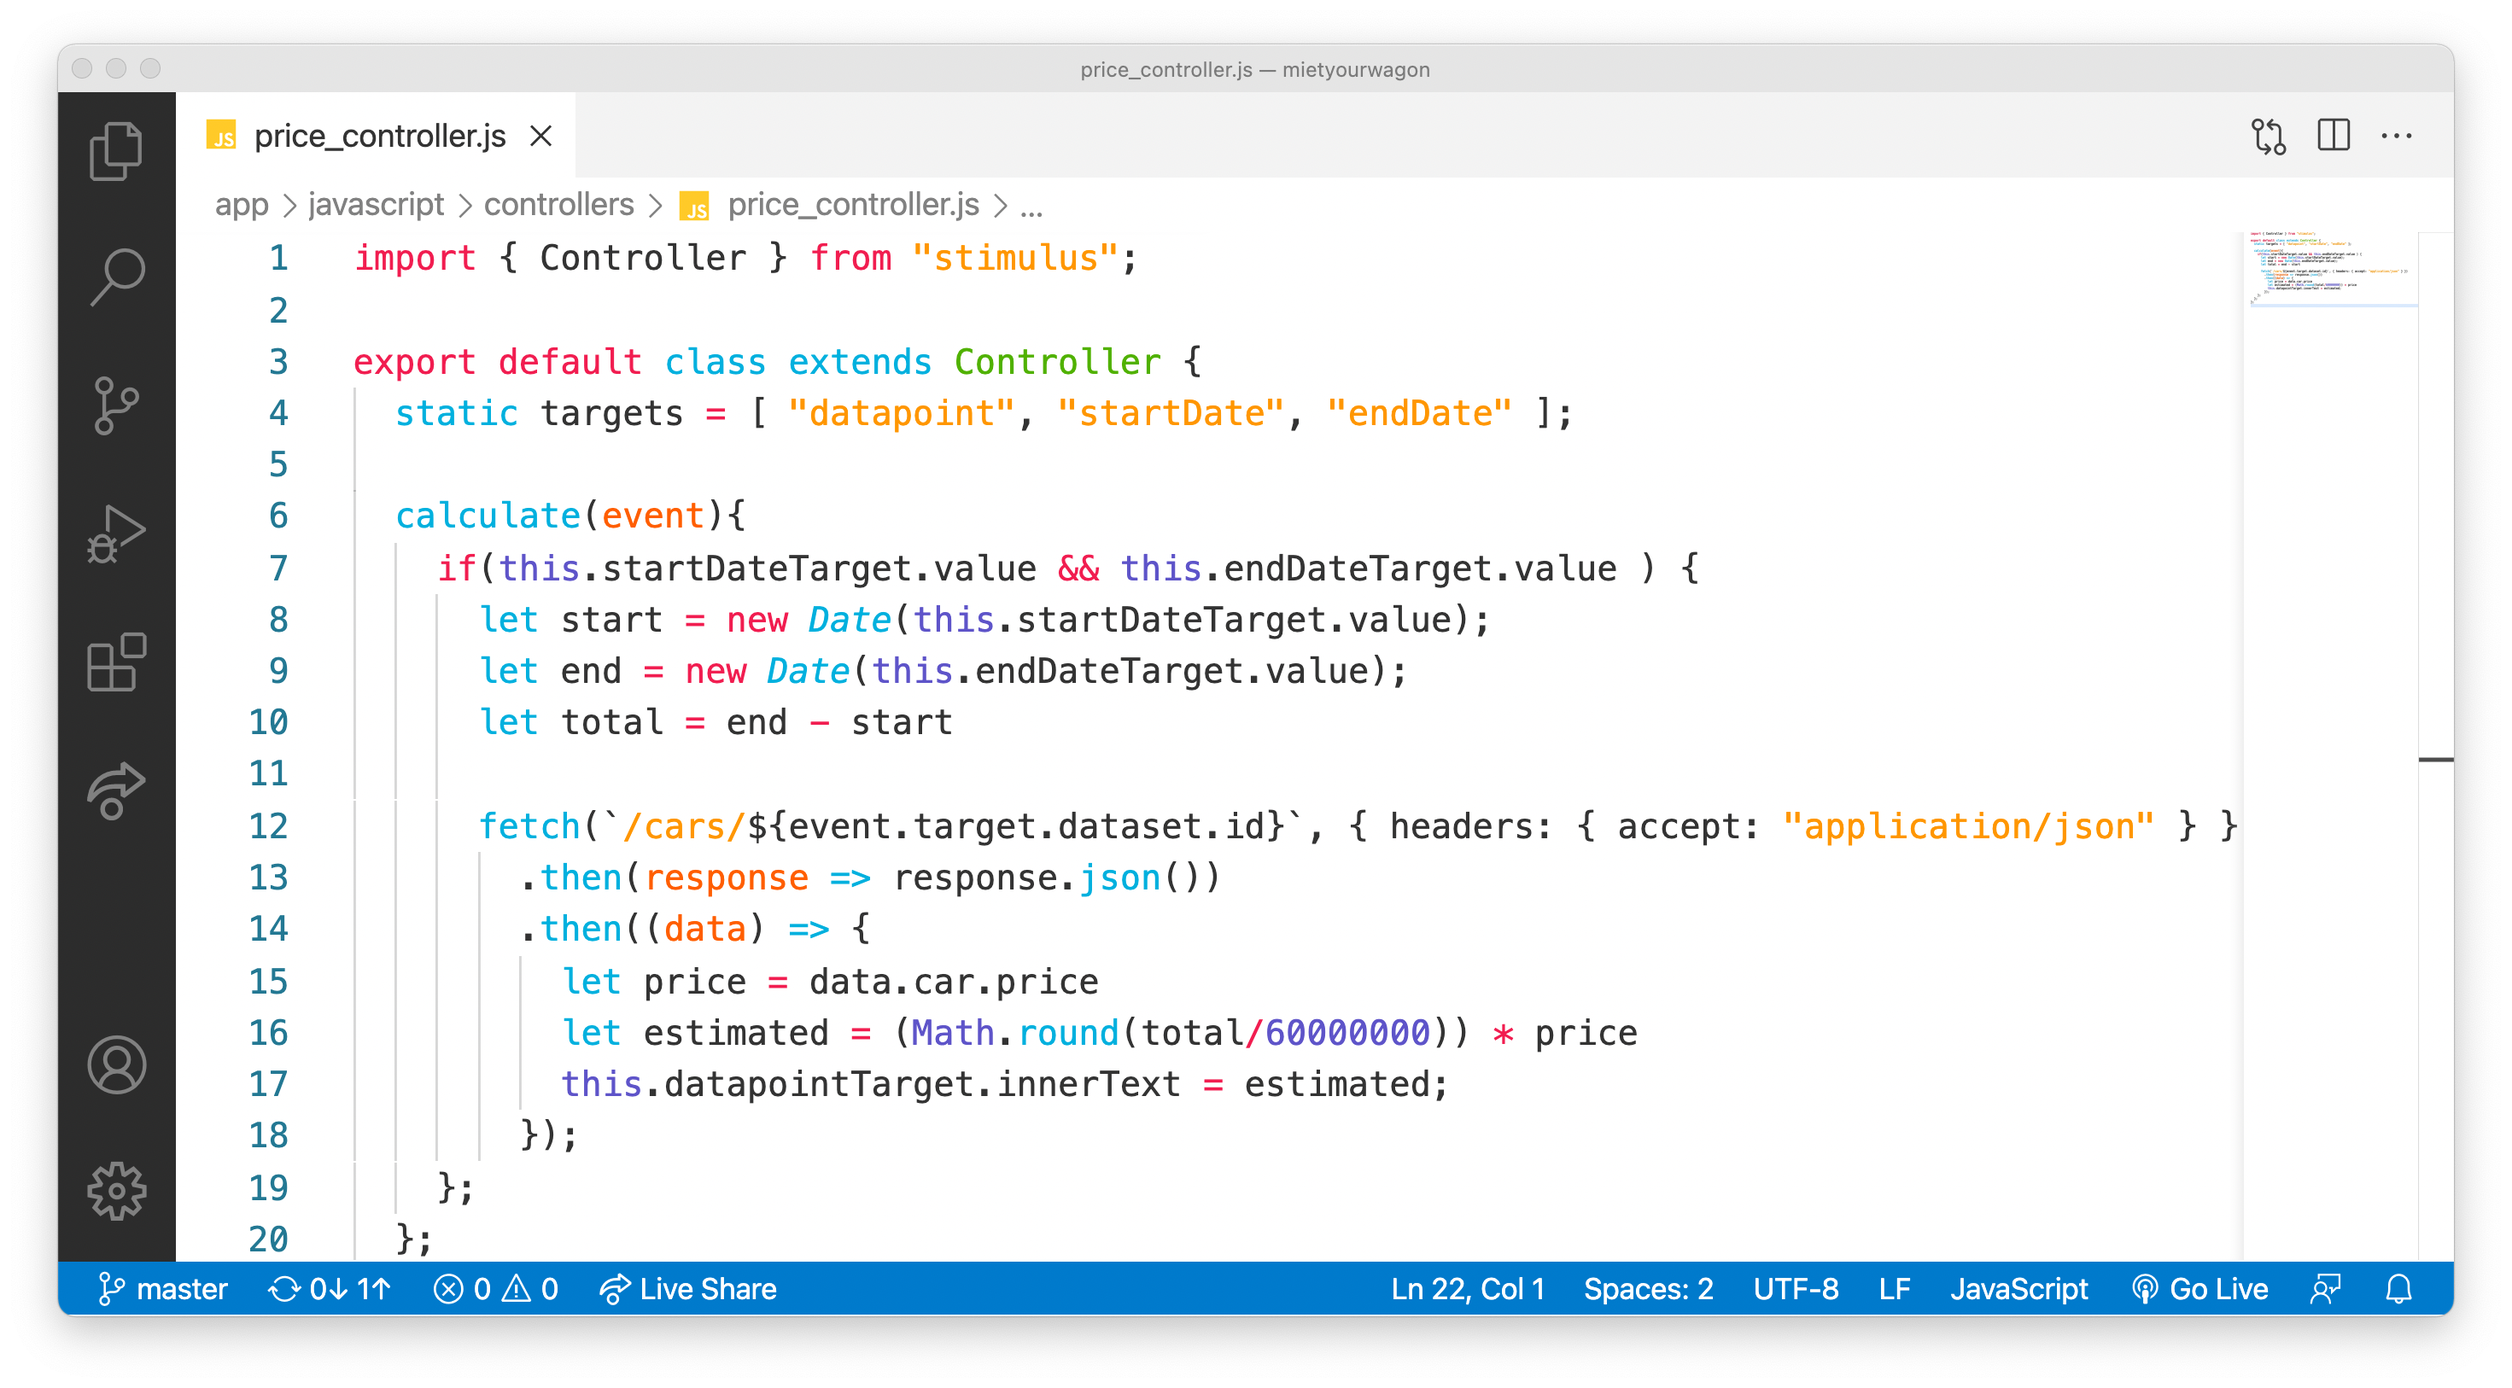
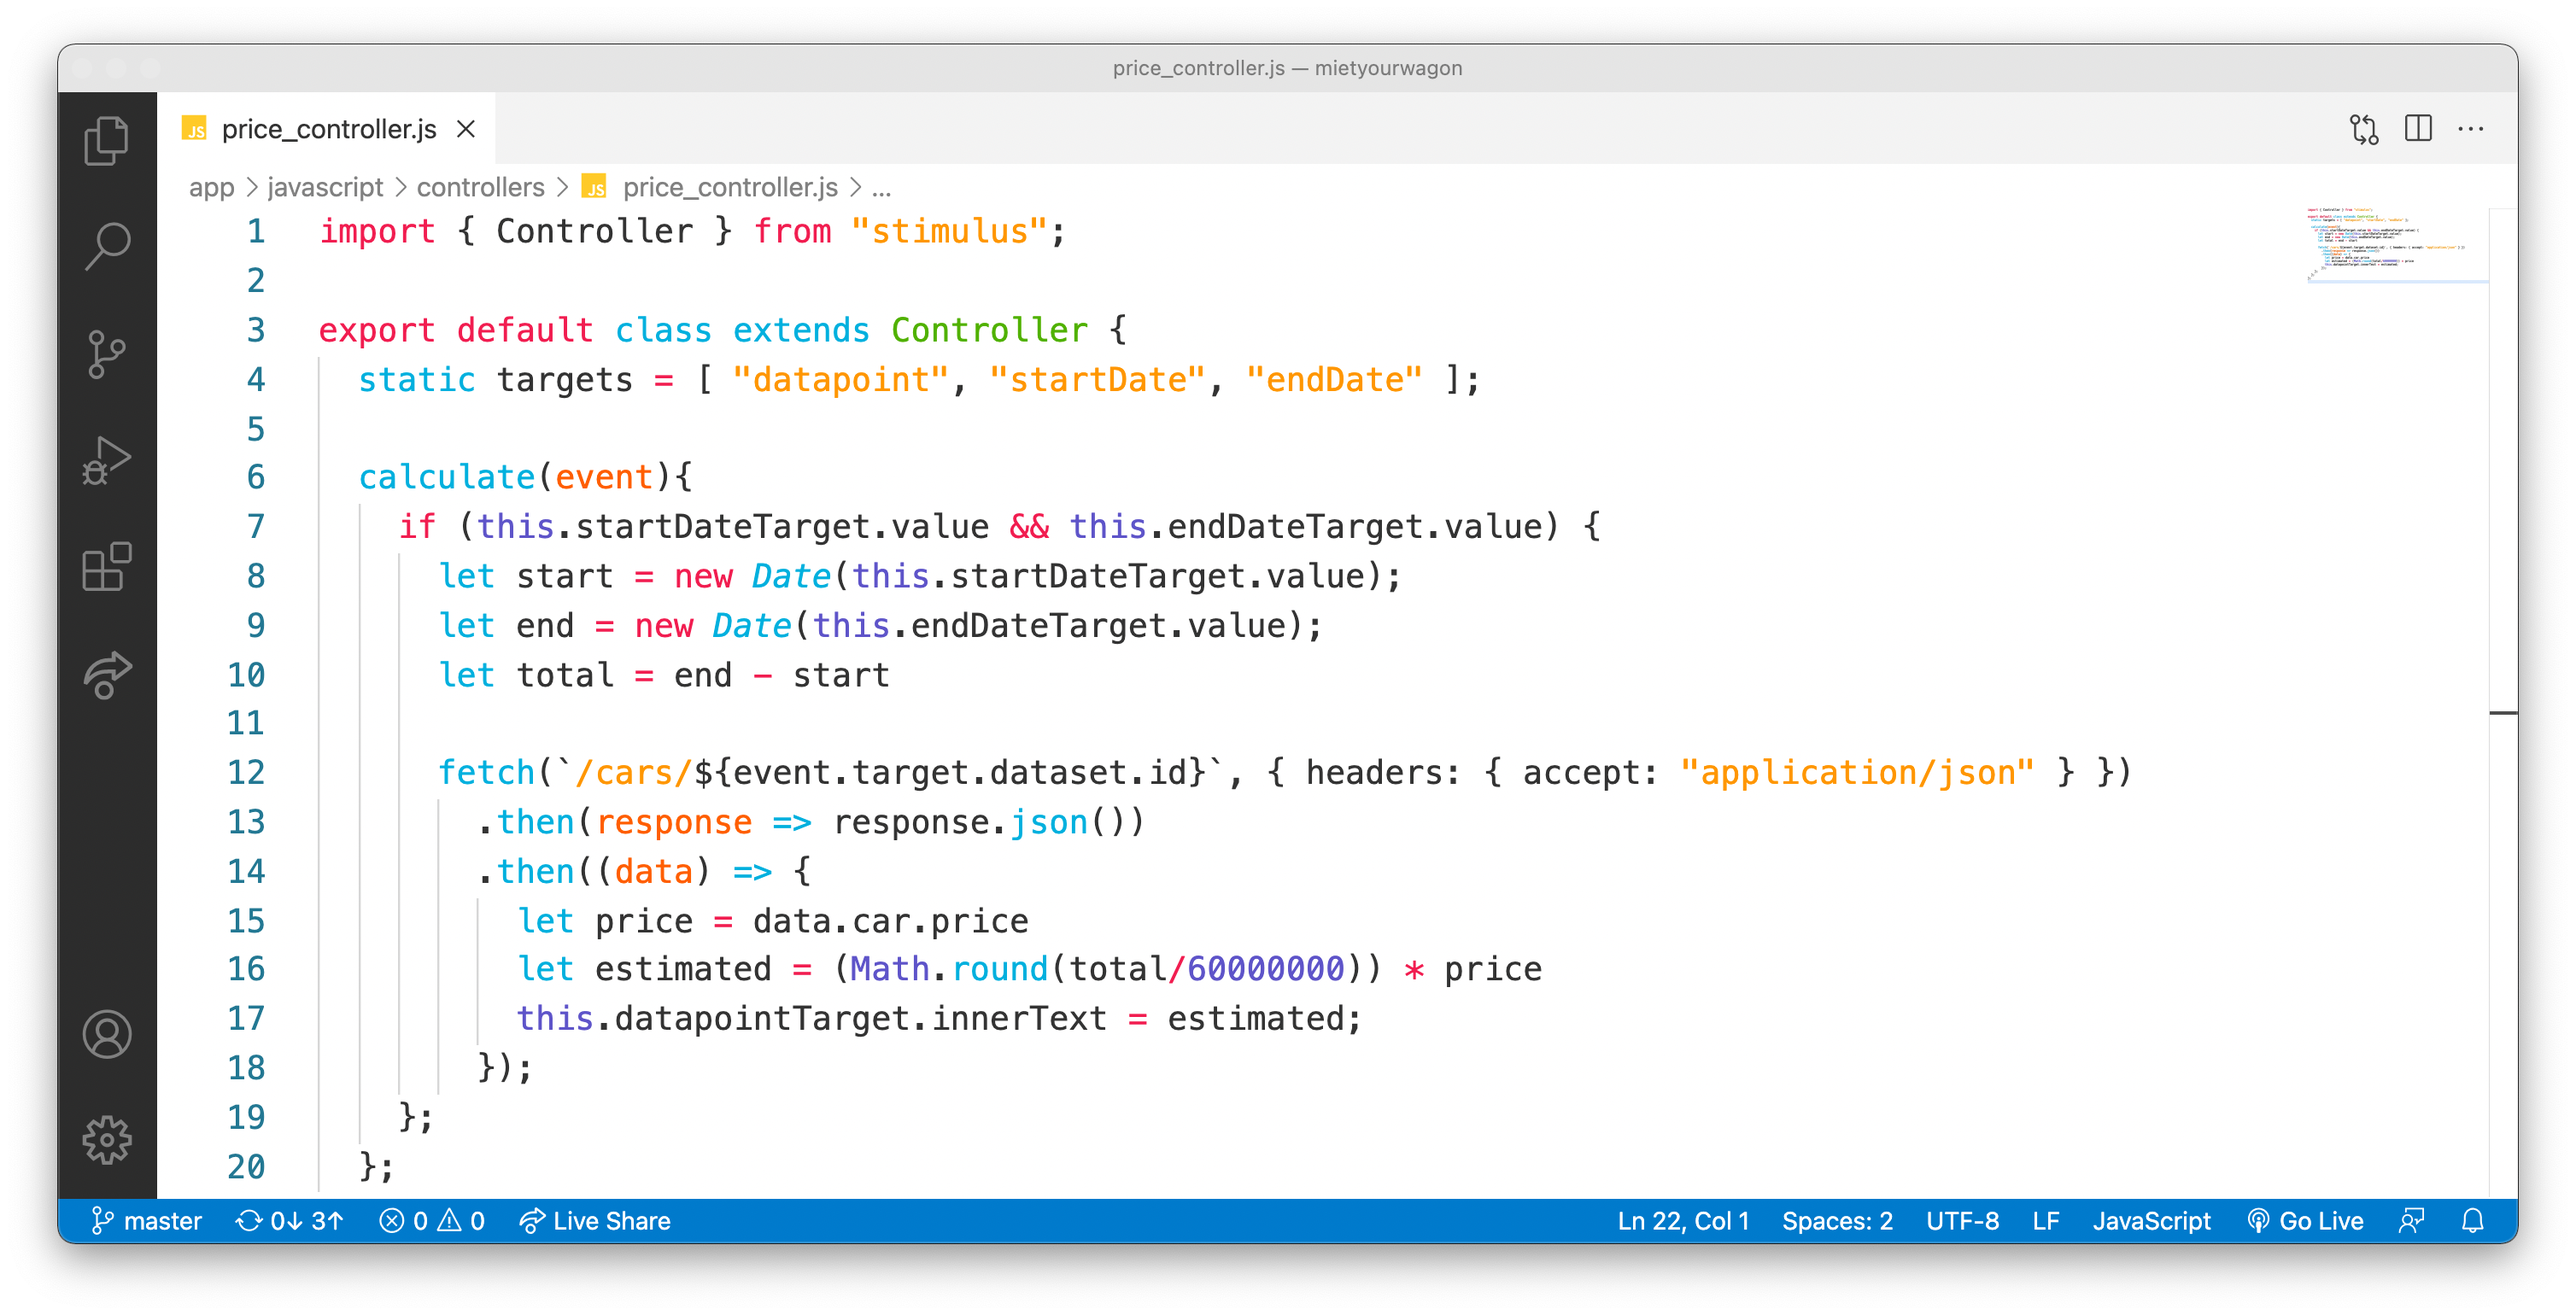
updated screenshot

diff --git a/CHANGELOG.md b/CHANGELOG.md
@@ -4,6 +4,10 @@ All notable changes to the "monokai-light" extension will be documented in this 
 
 ## [Unreleased]
 
+## [1.1.1] - 2021-06-28
+### Changed
+- Fixed typo in screenshot
+
 ## [1.1.0] - 2021-06-27
 ### Added
 - Icon for marketplace
